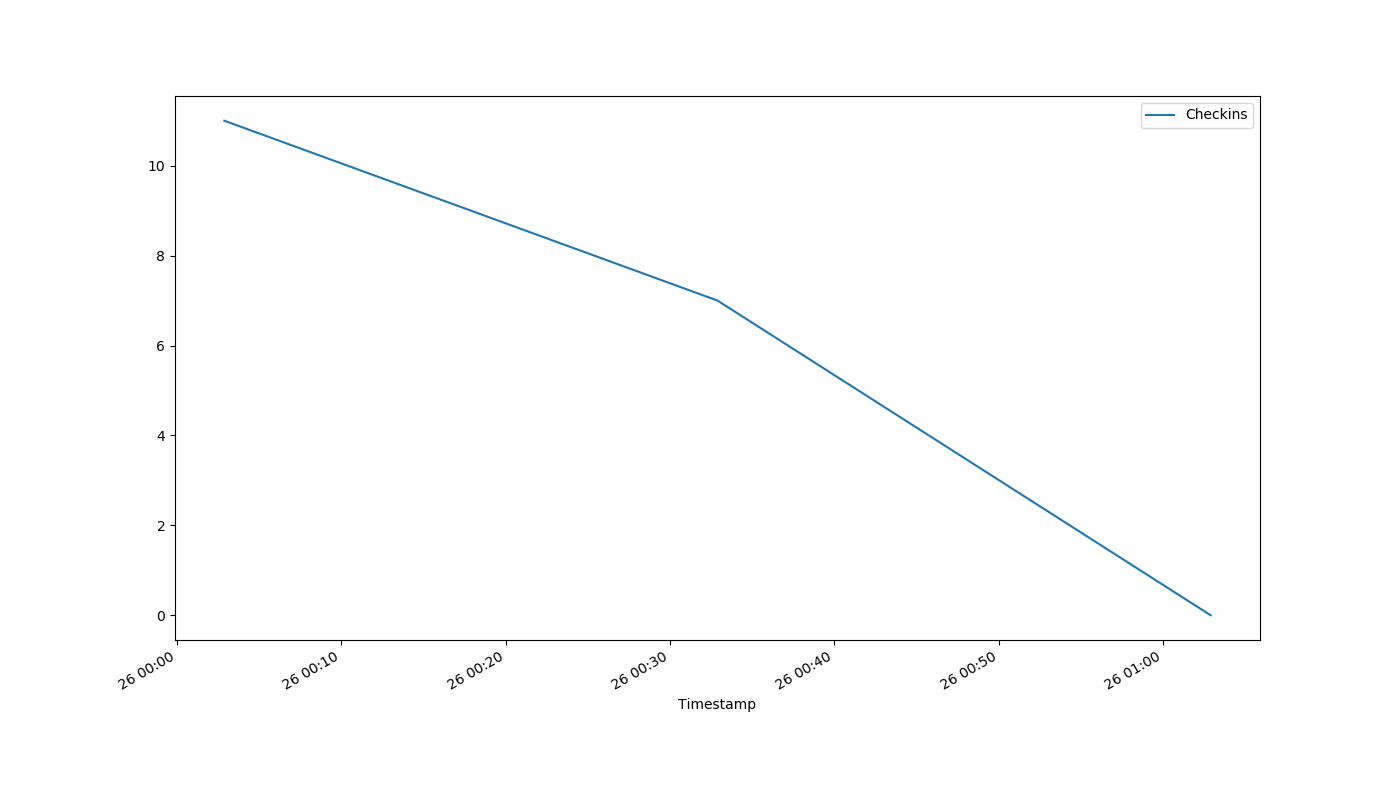
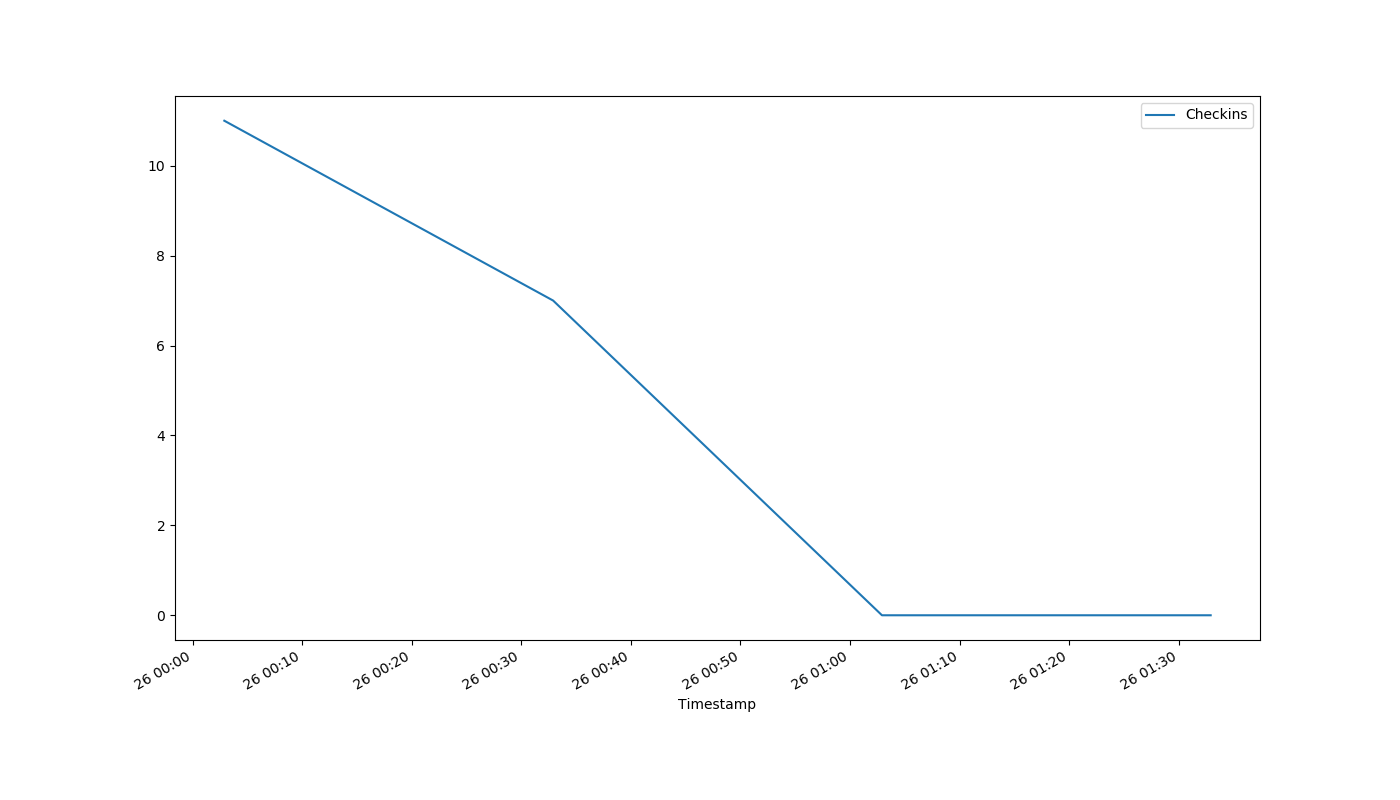
auto-Jul-26-01:34:06

diff --git a/index.html b/index.html
@@ -1,1 +1,1 @@
-<!DOCTYPE html><html><head><meta http-equiv="refresh" content="30"><link rel='stylesheet' href='holmcurrent.css'></head><body><p id='count'>0</p><div id='graph-wrap'><img id='graph' src='holmgraph-Jul-26.png'></div><p id='updated'>Last updated 01:03:13 / 01:02:54</p></body></html>
+<!DOCTYPE html><html><head><meta http-equiv="refresh" content="30"><link rel='stylesheet' href='holmcurrent.css'></head><body><p id='count'>0</p><div id='graph-wrap'><img id='graph' src='holmgraph-Jul-26.png'></div><p id='updated'>Last updated 01:33:13 / 01:32:54</p></body></html>
